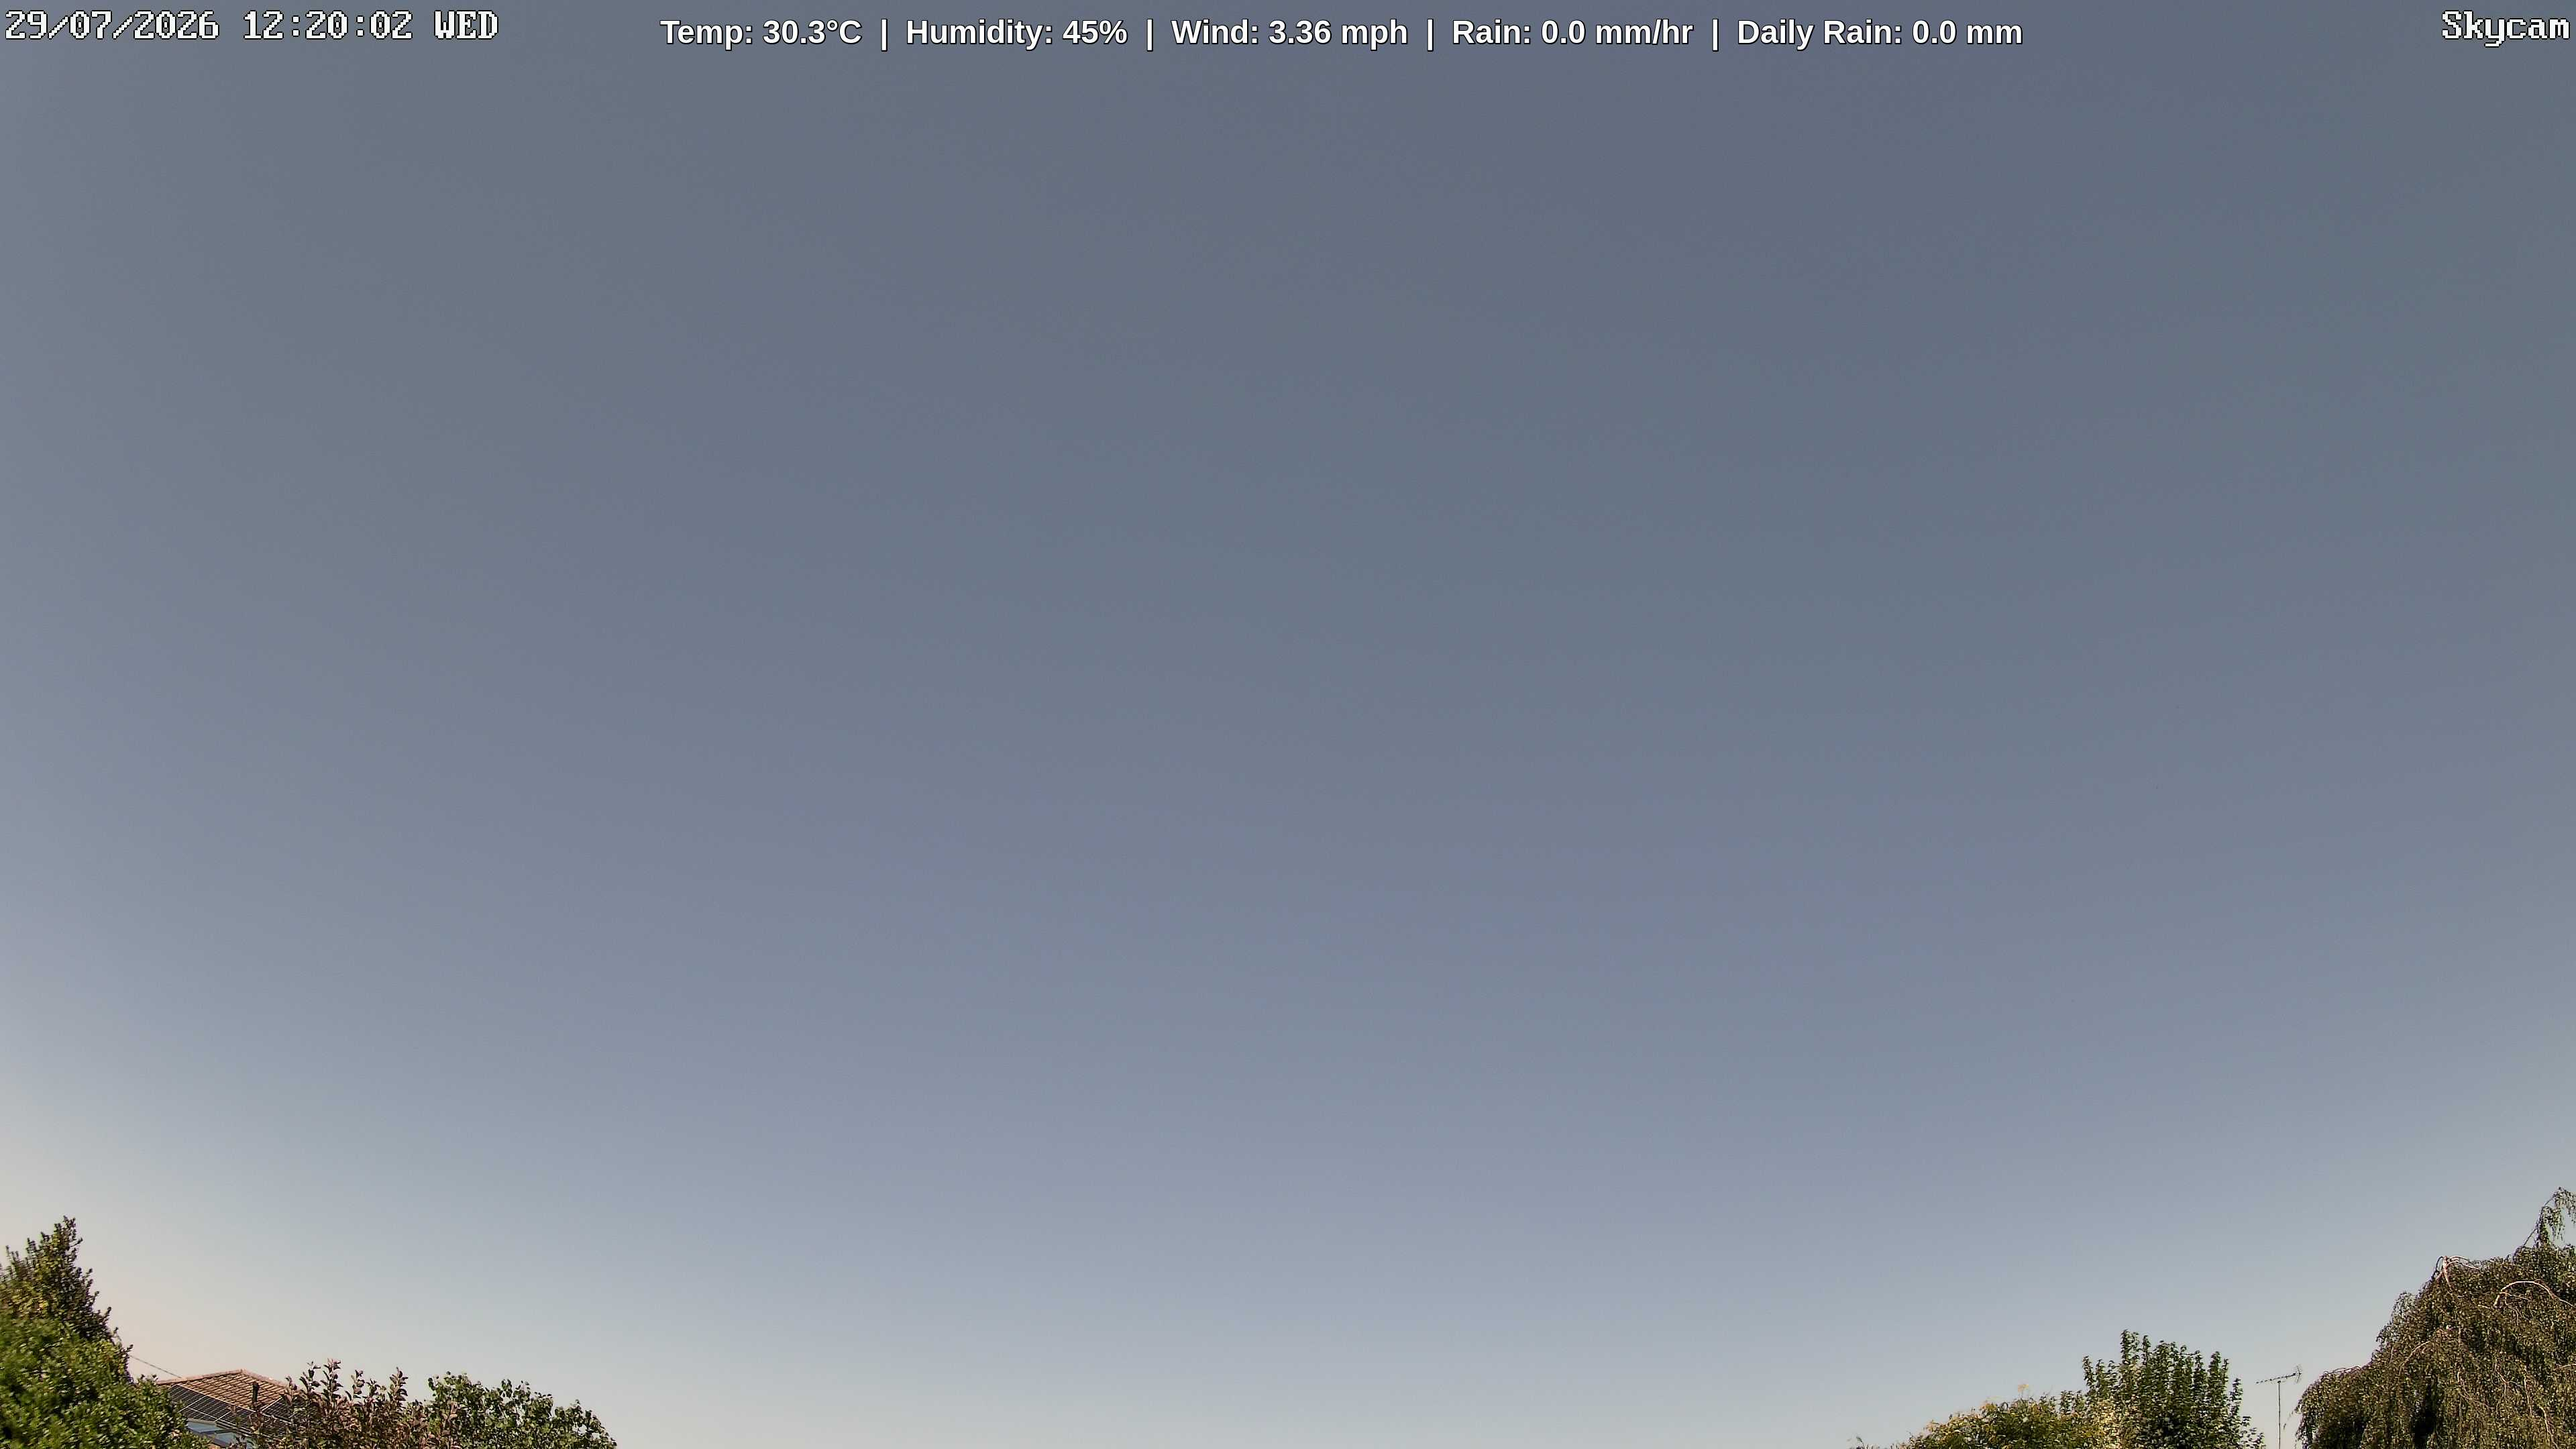
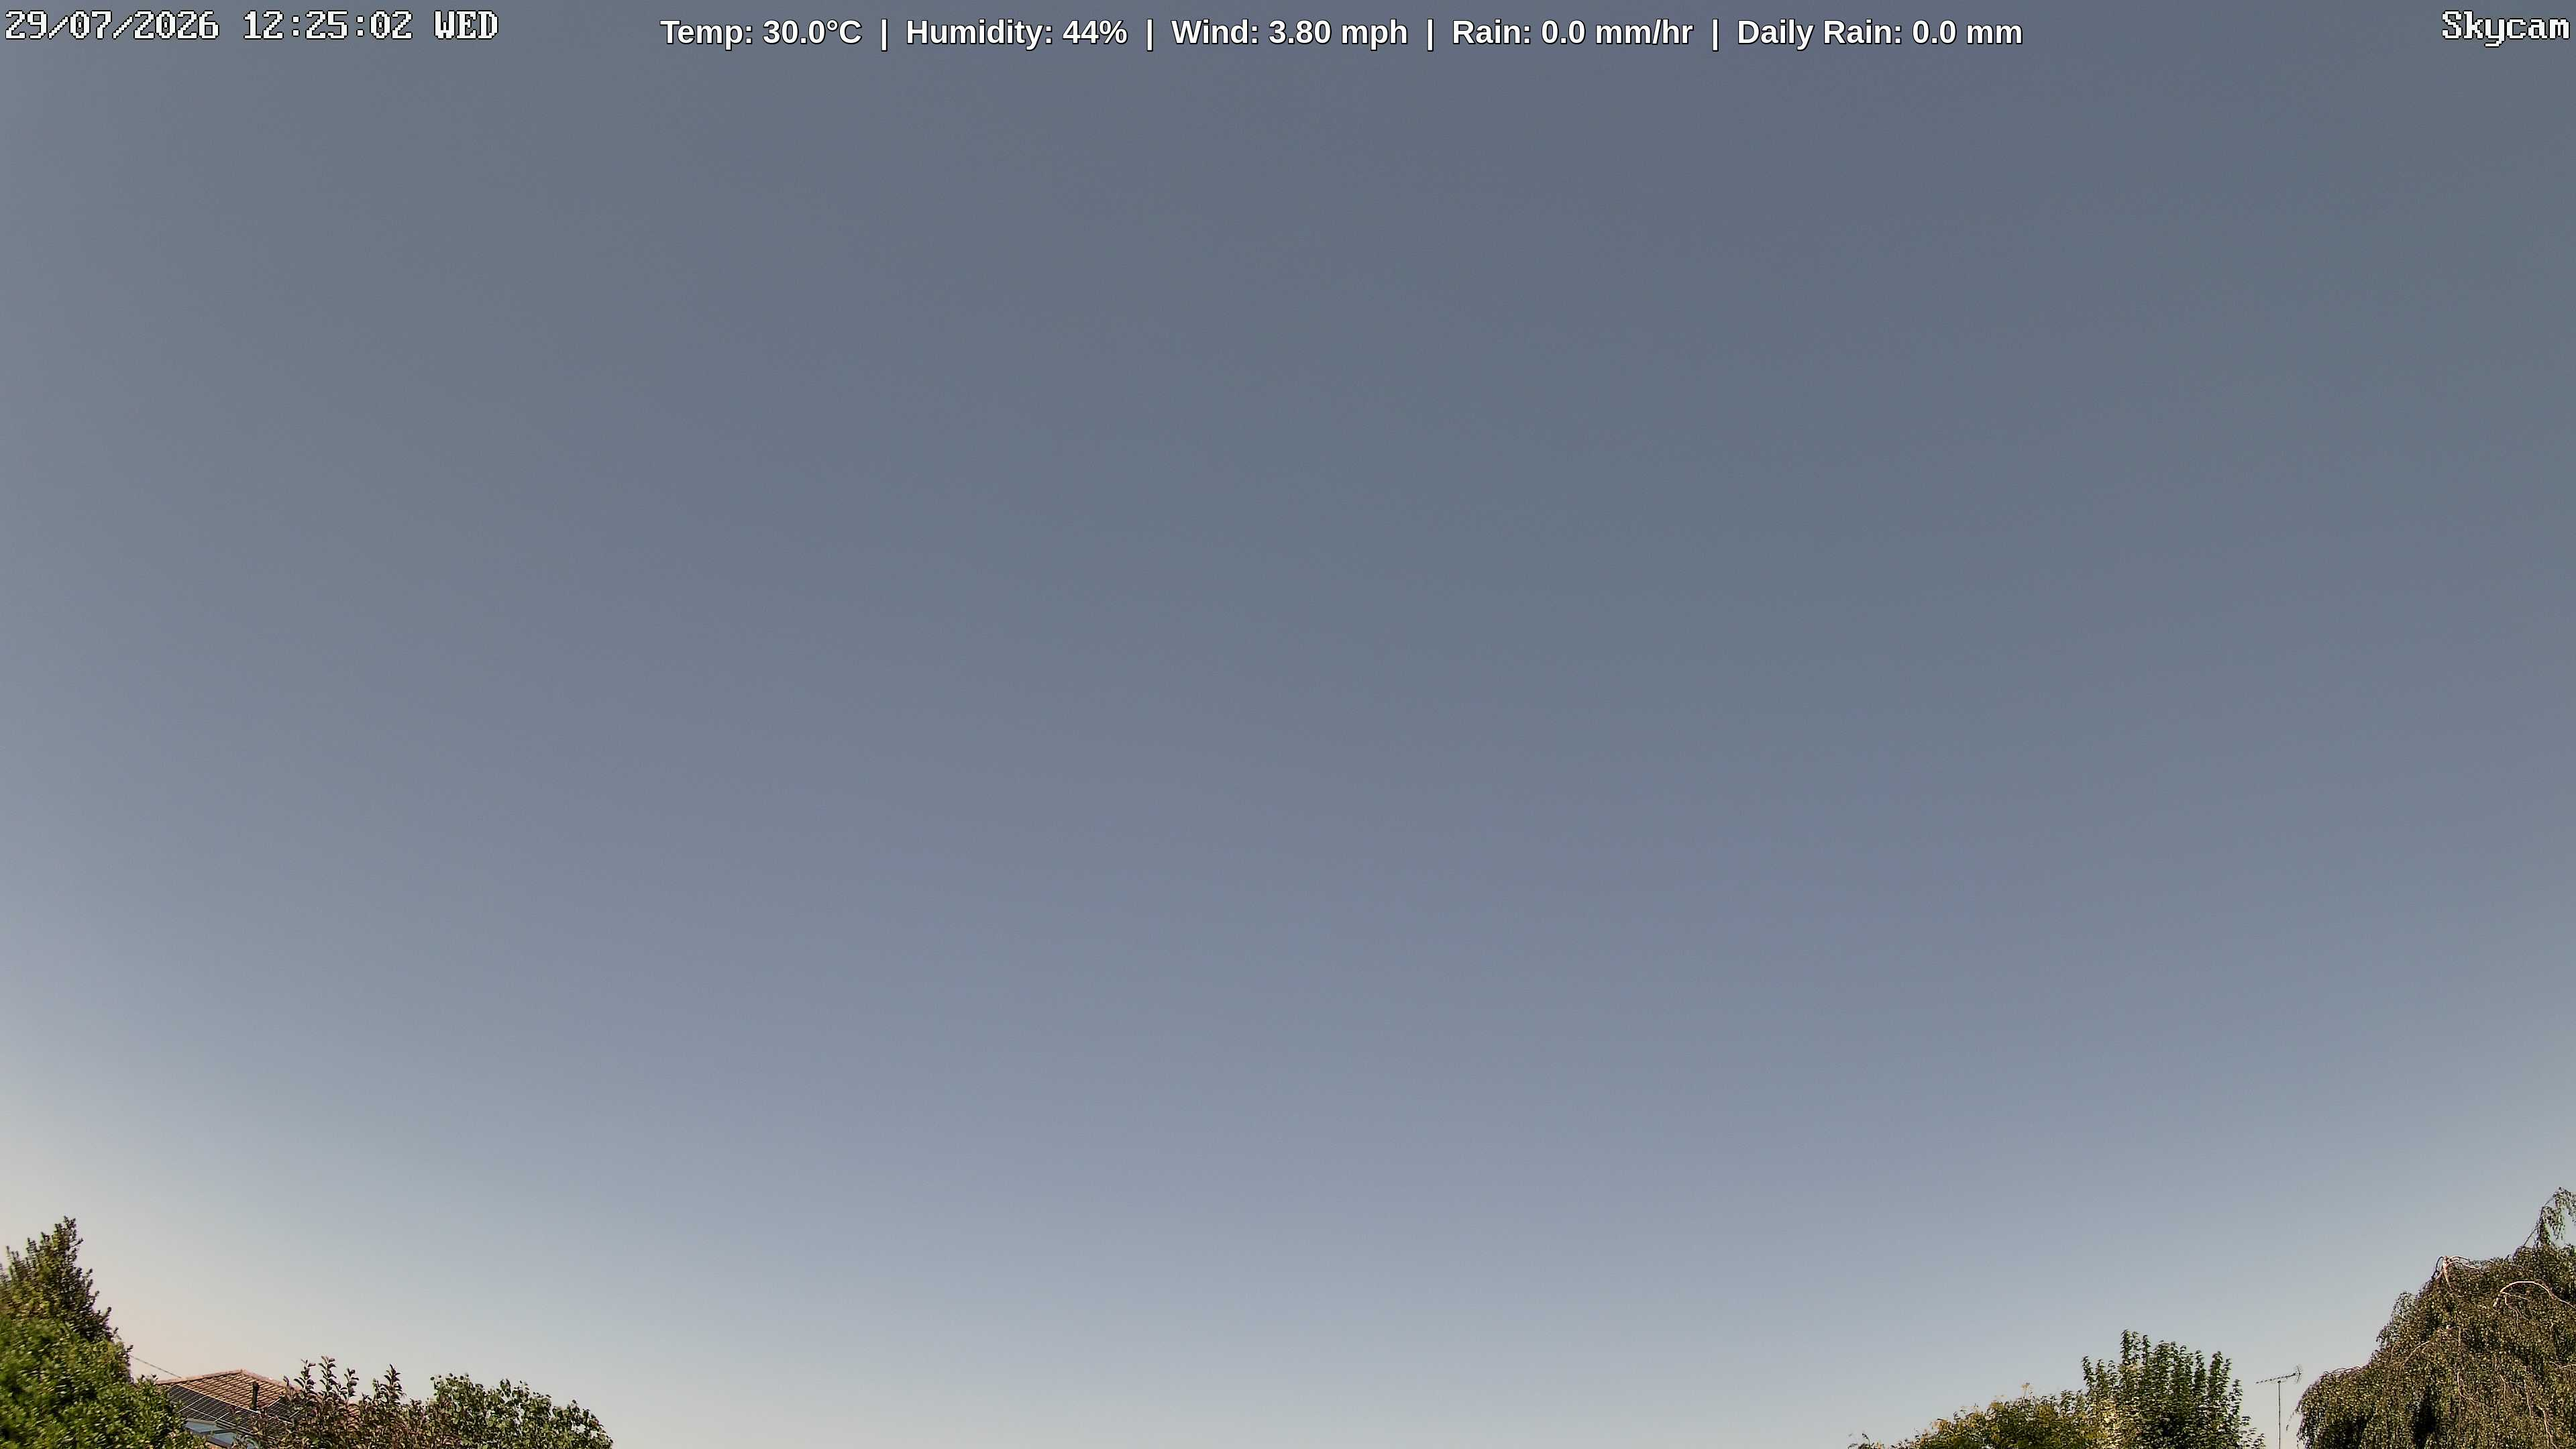
Update weather cam image with synchronized dual-layer weather metrics

Changed region(s): [[0.7188, 0.8375, 1.0, 1.0], [0.0, 0.8375, 0.25, 1.0], [0.125, 0.0, 0.1562, 0.031]]

diff --git a/index.html b/index.html
@@ -32,7 +32,7 @@
 </head>
 <body>
     <img id="weathercam" alt="Live Weather Snapshot">
-    <div class="banner">Temp: 30.3°C  |  Humidity: 45%  |  Wind: 3.36 mph  |  Rain: 0.0 mm/hr  |  Daily Rain: 0.0 mm</div>
+    <div class="banner">Temp: 30.0°C  |  Humidity: 44%  |  Wind: 3.80 mph  |  Rain: 0.0 mm/hr  |  Daily Rain: 0.0 mm</div>
 
     <script>
         // Shatter mobile cache engines by appending a live unique runtime timestamp 
